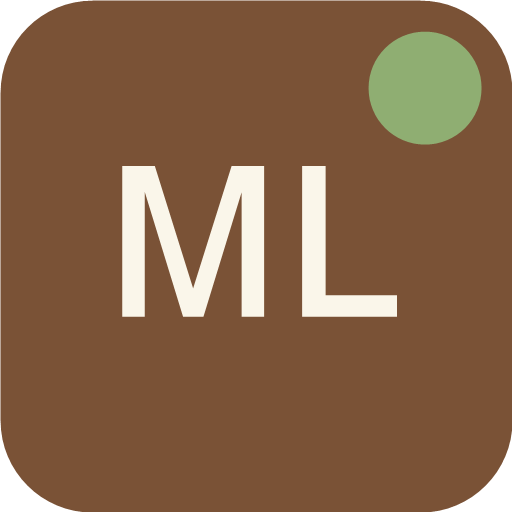
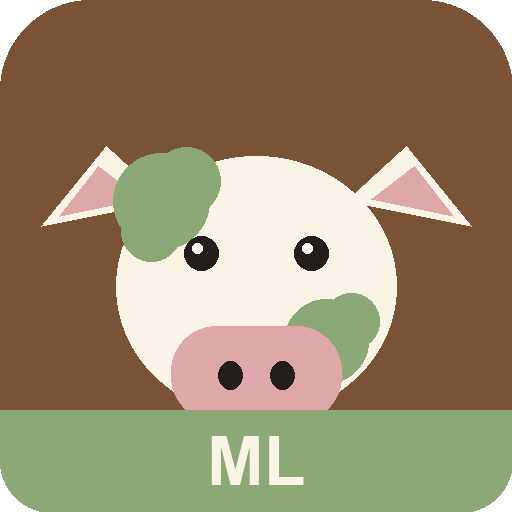
Reemplazar iconos de acceso directo: cabeza de vaca + iniciales
Antes eran solo un cuadrado de color con LV/ML. Ahora es un icono
mas visual (cabeza de vaca con manchas asimetricas) manteniendo las
iniciales de cada establecimiento en una franja abajo, en los mismos
colores de cada app.

diff --git a/maria-laura-pc/sw.js b/maria-laura-pc/sw.js
@@ -3,7 +3,7 @@
 // offline. Nunca intercepta nada mas: ni las teselas del mapa (arcgisonline)
 // ni las llamadas a Supabase (sincronizacion), asi no hay riesgo de servir
 // datos viejos ni de romper la sincronizacion.
-const CACHE = 'maria-laura-pc-v2.15';
+const CACHE = 'maria-laura-pc-v2.16';
 const PRECACHE_URLS = [".", "index.html", "manifest.json", "icon-48x48.png", "icon-72x72.png", "icon-96x96.png", "icon-144x144.png", "icon-192x192.png", "icon-512x512.png", "https://cdn.jsdelivr.net/npm/@supabase/supabase-js@2/dist/umd/supabase.js", "https://cdnjs.cloudflare.com/ajax/libs/jspdf-autotable/3.8.2/jspdf.plugin.autotable.min.js", "https://cdnjs.cloudflare.com/ajax/libs/jspdf/2.5.1/jspdf.umd.min.js", "https://cdnjs.cloudflare.com/ajax/libs/jszip/3.10.1/jszip.min.js", "https://cdnjs.cloudflare.com/ajax/libs/leaflet/1.9.4/leaflet.min.css", "https://cdnjs.cloudflare.com/ajax/libs/leaflet/1.9.4/leaflet.min.js", "https://cdnjs.cloudflare.com/ajax/libs/xlsx/0.18.5/xlsx.full.min.js", "https://fonts.googleapis.com", "https://fonts.googleapis.com/css2?family=Fraunces:opsz,wght@9..144,500;9..144,600;9..144,700&family=Inter:wght@400;500;600;700&family=JetBrains+Mono:wght@500;700&display=swap"];
 
 self.addEventListener('install', event => {

diff --git a/la-vuelta-pc/sw.js b/la-vuelta-pc/sw.js
@@ -3,7 +3,7 @@
 // offline. Nunca intercepta nada mas: ni las teselas del mapa (arcgisonline)
 // ni las llamadas a Supabase (sincronizacion), asi no hay riesgo de servir
 // datos viejos ni de romper la sincronizacion.
-const CACHE = 'la-vuelta-pc-v2.15';
+const CACHE = 'la-vuelta-pc-v2.16';
 const PRECACHE_URLS = [".", "index.html", "manifest.json", "icon-48x48.png", "icon-72x72.png", "icon-96x96.png", "icon-144x144.png", "icon-192x192.png", "icon-512x512.png", "https://cdn.jsdelivr.net/npm/@supabase/supabase-js@2/dist/umd/supabase.js", "https://cdnjs.cloudflare.com/ajax/libs/jspdf-autotable/3.8.2/jspdf.plugin.autotable.min.js", "https://cdnjs.cloudflare.com/ajax/libs/jspdf/2.5.1/jspdf.umd.min.js", "https://cdnjs.cloudflare.com/ajax/libs/jszip/3.10.1/jszip.min.js", "https://cdnjs.cloudflare.com/ajax/libs/leaflet/1.9.4/leaflet.min.css", "https://cdnjs.cloudflare.com/ajax/libs/leaflet/1.9.4/leaflet.min.js", "https://cdnjs.cloudflare.com/ajax/libs/xlsx/0.18.5/xlsx.full.min.js", "https://fonts.googleapis.com", "https://fonts.googleapis.com/css2?family=Fraunces:opsz,wght@9..144,500;9..144,600;9..144,700&family=Inter:wght@400;500;600;700&family=JetBrains+Mono:wght@500;700&display=swap"];
 
 self.addEventListener('install', event => {

diff --git a/maria-laura-movil/sw.js b/maria-laura-movil/sw.js
@@ -3,7 +3,7 @@
 // offline. Nunca intercepta nada mas: ni las teselas del mapa (arcgisonline)
 // ni las llamadas a Supabase (sincronizacion), asi no hay riesgo de servir
 // datos viejos ni de romper la sincronizacion.
-const CACHE = 'maria-laura-movil-v2.12';
+const CACHE = 'maria-laura-movil-v2.13';
 const PRECACHE_URLS = [".", "index.html", "manifest.json", "icon-48x48.png", "icon-72x72.png", "icon-96x96.png", "icon-144x144.png", "icon-192x192.png", "icon-512x512.png", "https://cdn.jsdelivr.net/npm/@supabase/supabase-js@2/dist/umd/supabase.js", "https://cdnjs.cloudflare.com/ajax/libs/jszip/3.10.1/jszip.min.js", "https://cdnjs.cloudflare.com/ajax/libs/leaflet/1.9.4/leaflet.min.css", "https://cdnjs.cloudflare.com/ajax/libs/leaflet/1.9.4/leaflet.min.js", "https://fonts.googleapis.com", "https://fonts.googleapis.com/css2?family=Fraunces:opsz,wght@9..144,500;9..144,600;9..144,700&family=Inter:wght@400;500;600;700&family=JetBrains+Mono:wght@500;700&display=swap"];
 
 self.addEventListener('install', event => {

diff --git a/la-vuelta-movil/sw.js b/la-vuelta-movil/sw.js
@@ -3,7 +3,7 @@
 // offline. Nunca intercepta nada mas: ni las teselas del mapa (arcgisonline)
 // ni las llamadas a Supabase (sincronizacion), asi no hay riesgo de servir
 // datos viejos ni de romper la sincronizacion.
-const CACHE = 'la-vuelta-movil-v2.12';
+const CACHE = 'la-vuelta-movil-v2.13';
 const PRECACHE_URLS = [".", "index.html", "manifest.json", "icon-48x48.png", "icon-72x72.png", "icon-96x96.png", "icon-144x144.png", "icon-192x192.png", "icon-512x512.png", "https://cdn.jsdelivr.net/npm/@supabase/supabase-js@2/dist/umd/supabase.js", "https://cdnjs.cloudflare.com/ajax/libs/jszip/3.10.1/jszip.min.js", "https://cdnjs.cloudflare.com/ajax/libs/leaflet/1.9.4/leaflet.min.css", "https://cdnjs.cloudflare.com/ajax/libs/leaflet/1.9.4/leaflet.min.js", "https://fonts.googleapis.com", "https://fonts.googleapis.com/css2?family=Fraunces:opsz,wght@9..144,500;9..144,600;9..144,700&family=Inter:wght@400;500;600;700&family=JetBrains+Mono:wght@500;700&display=swap"];
 
 self.addEventListener('install', event => {
